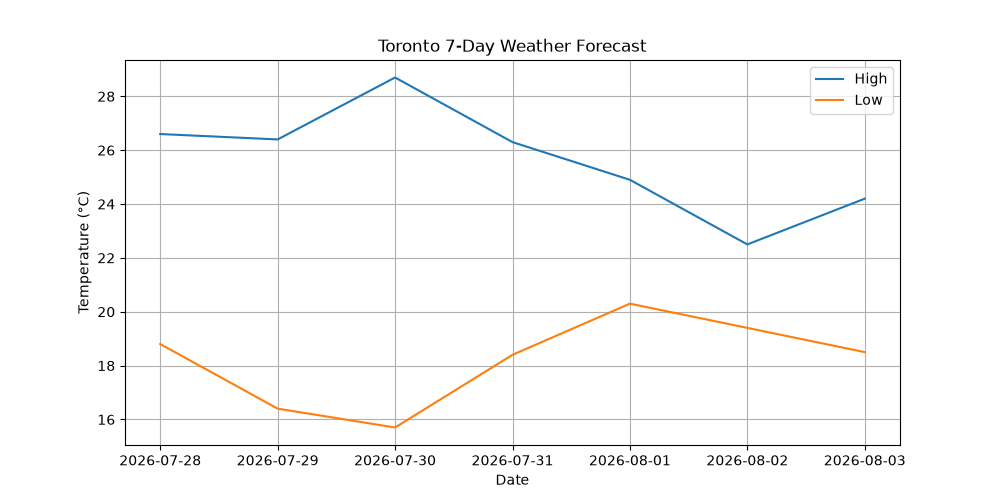
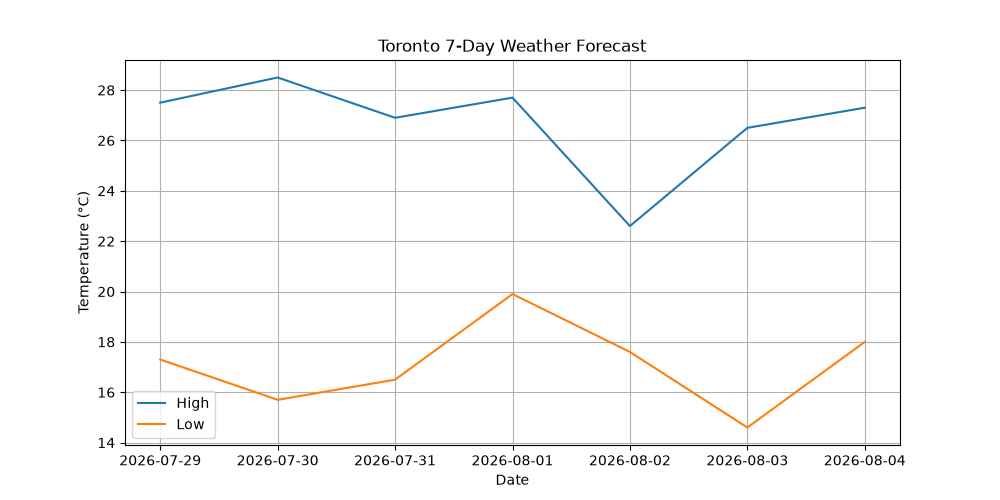
09-university-task-manager

diff --git a/09-university-task-manager/main.py b/09-university-task-manager/main.py
@@ -1,0 +1,61 @@
+
+
+
+tasks = []
+
+def add_task(tasks): 
+    """
+    Creates a new task from user input and adds it to the task list.
+
+    Args: 
+        tasks (list): 
+            List containing task dictionaries. 
+    """
+
+    description = input("Task description: ").strip().title()
+    due_date = input("due date: ").strip()
+    course = input("Course: ").strip().upper()
+    priority = input("Priority: ").strip().title()
+
+    new_task = {
+        "description": description, 
+        "due_date": due_date, 
+        "course": course,
+        "priority": priority, 
+        "completed": False,
+    }
+
+    tasks.append(new_task)
+    print("Task added.")
+
+def view_tasks(tasks): 
+    """
+    Displays every task in the task list.
+
+    Args: 
+        tasks (list): 
+            List containing task dictionaries. 
+    """
+    if not tasks: #Is the list empty? 
+        #tasks = [] is false, so
+        #if not tasks == True
+        print("No tasks found.")
+        return #Exit the function at this line. 
+
+    for index, task in enumerate(tasks, start = 1): #for task in tasks: (returns each indexed position)
+        #enumerate creates pairs(tasks, index(1.... n))
+        print(
+            f"{index}. "
+            f"{task['description']} | "
+            f"{task['course']} | "
+            f"Due: {task['due_date']} | "
+            f"Priority: {task['priority']} | "
+            f"Completed: {task['completed']}"
+        )
+
+add_task(tasks)
+view_tasks(tasks)
+
+
+
+

diff --git a/README.md b/README.md
@@ -3,14 +3,15 @@
 This repository contains my learning journey in ahead of year 2 Industrial Engineering at the University of Toronto.
 
 ## Goals
-- Learn Python for engineering applications
-- Build real-world projects
+- Learn Python for engineering application
 - Prepare for hackathons
-- Develop a strong GitHub portfolio
+- Pray I don't get whooped by year 2
 
 ## Current Progress
-- [ ] Arithmetic Calculator (Complete)
-- [ ] Engineering Toolbox v1.0. (Complete)
-- [ ] Engineering Data Analyzer v1.0.(Complete)
-- [ ] Engineering Weather Database v1.0. (Complete)
-- [ ] Engineering Weather Database v2.0 (Complete)
+- [✓] Arithmetic Calculator (Complete)
+- [✓] Engineering Toolbox v1.0. (Complete)
+- [✓] Engineering Data Analyzer v1.0.(Complete)
+- [✓] Engineering Weather Database v1.0. (Complete)
+- [✓] Engineering Weather Database v2.0. (Complete)
+- [✓] Engineering Weather Database v3.0. (Complete)
+
